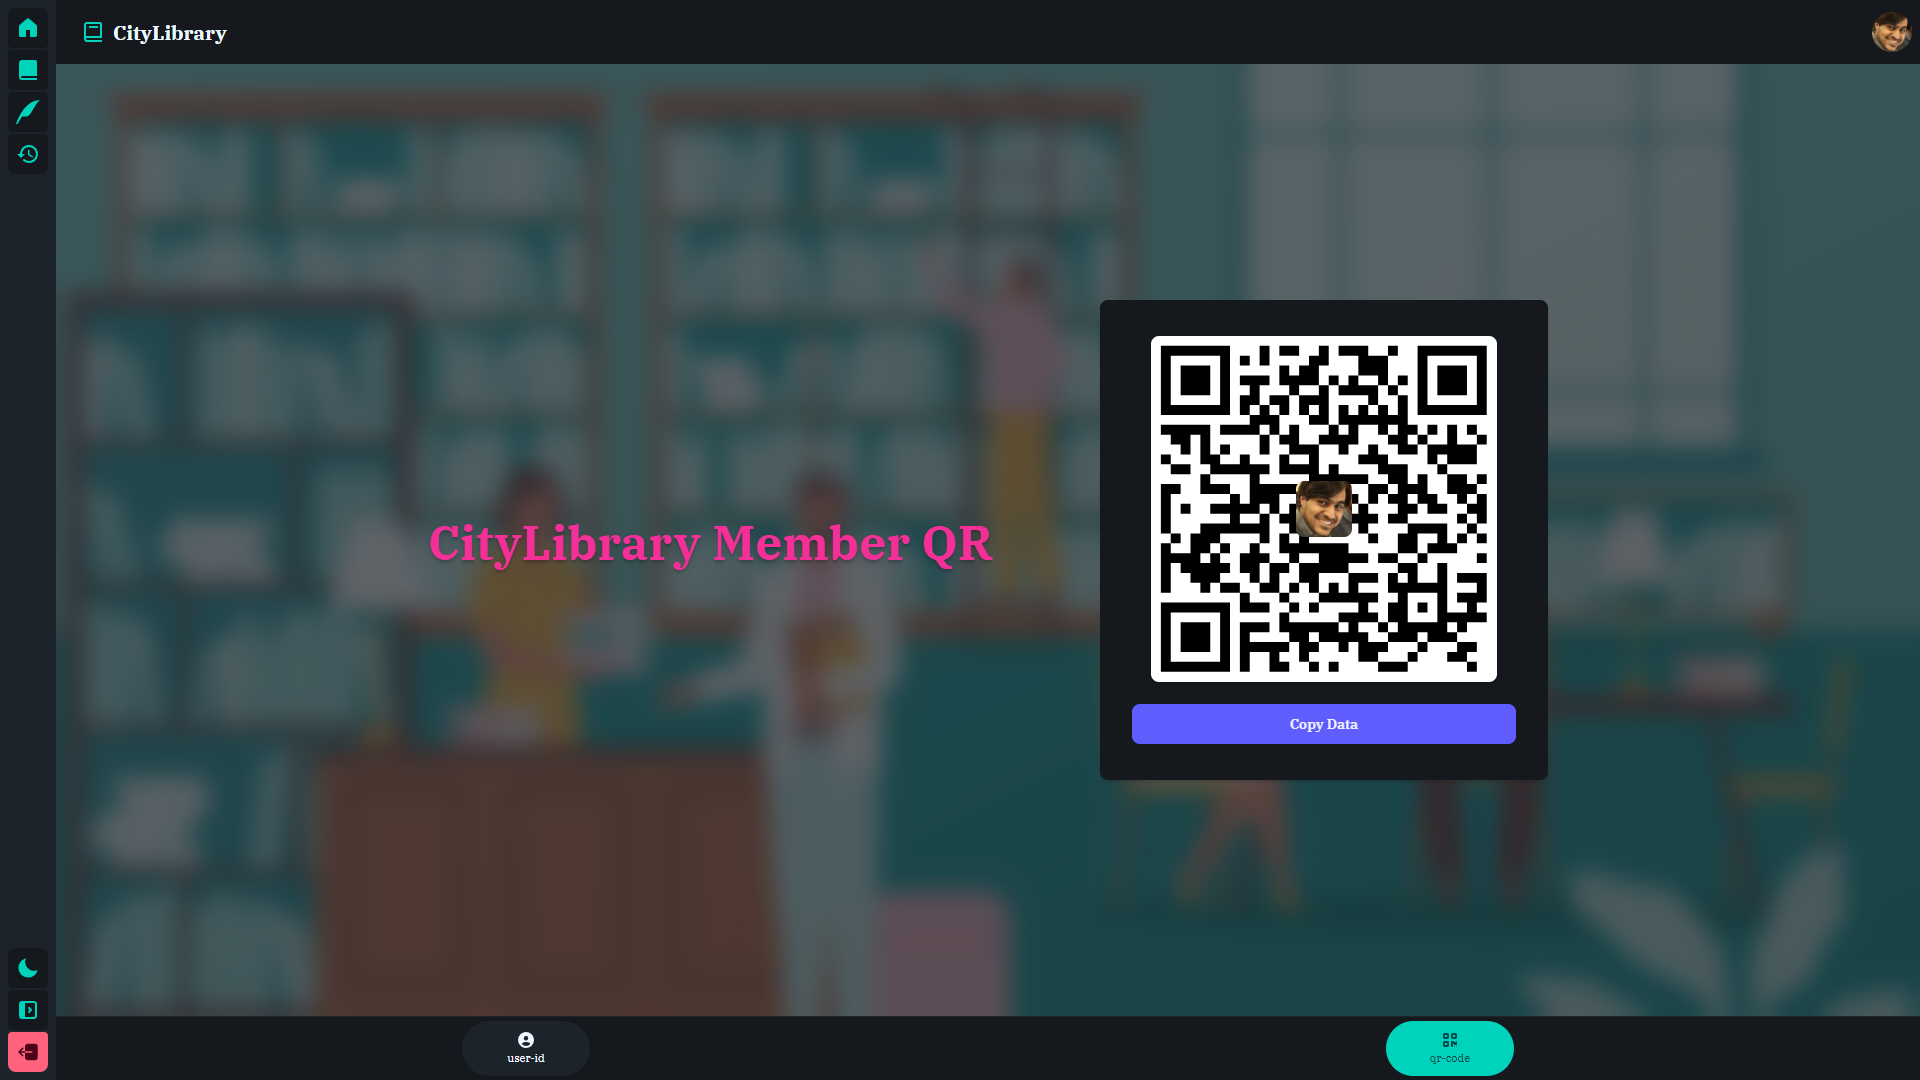
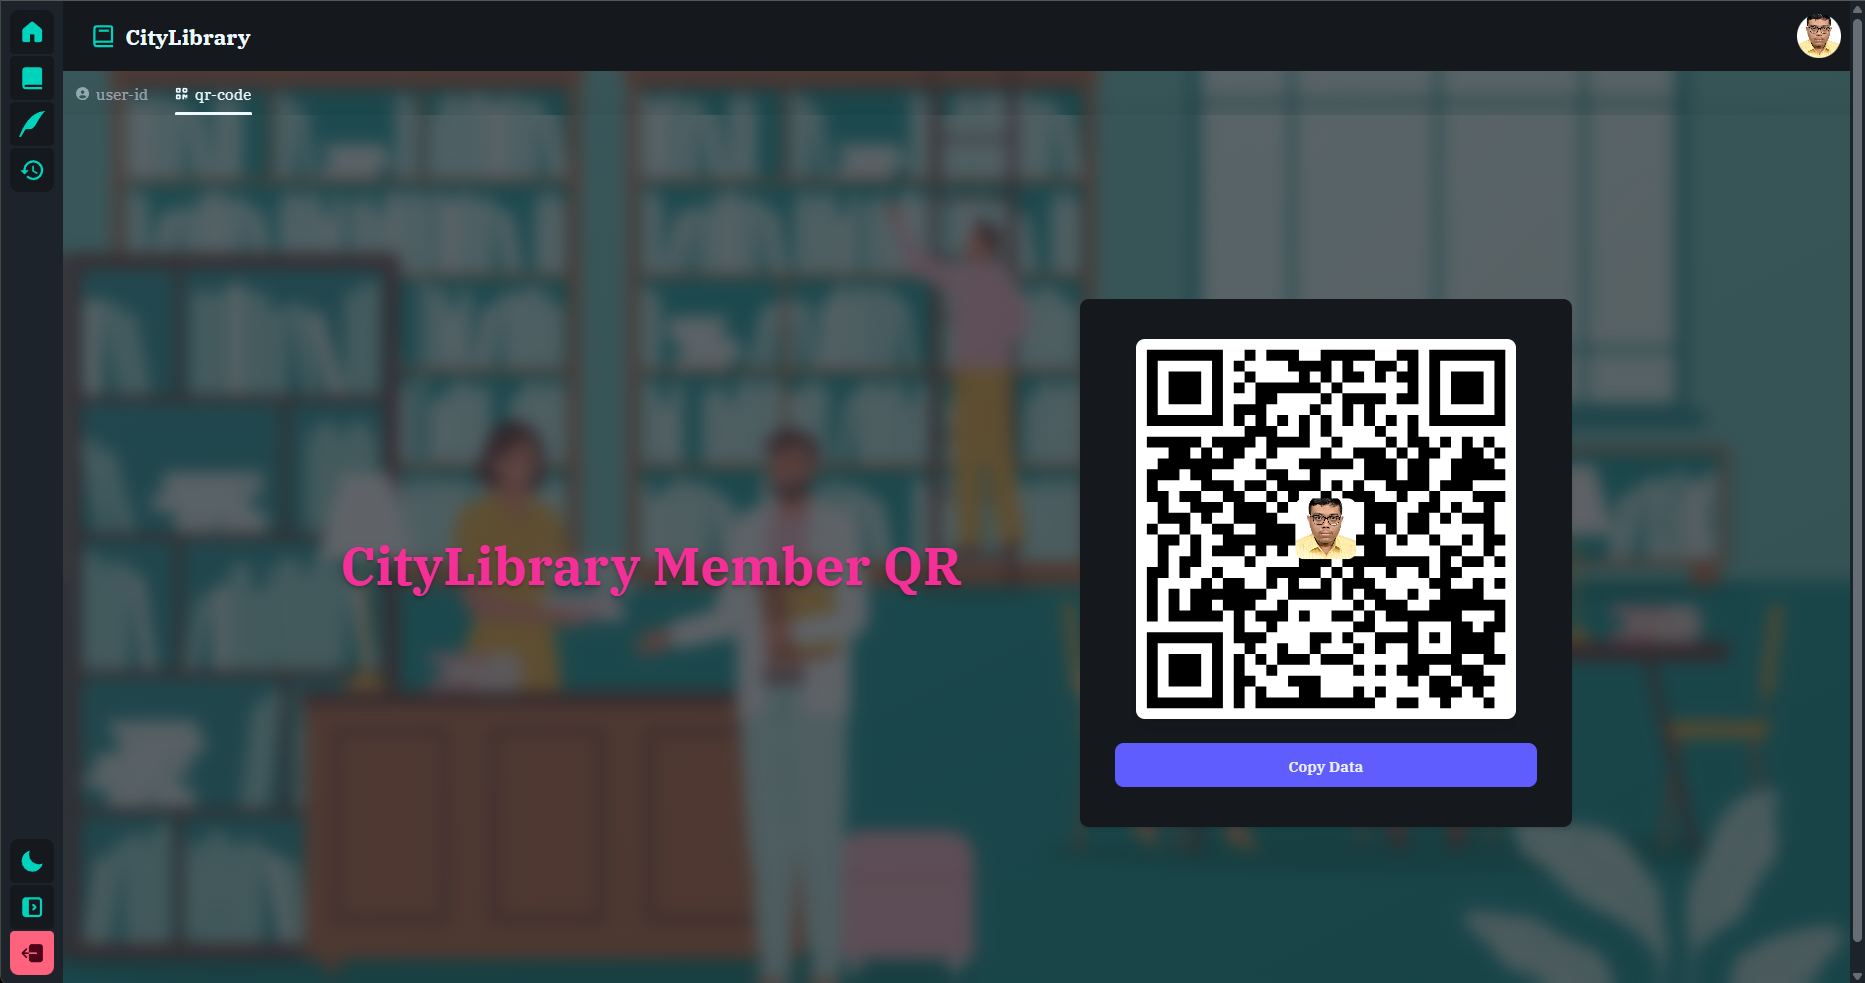
some minor additions done

diff --git a/ViteServer/src/routes/user/index.tsx b/ViteServer/src/routes/user/index.tsx
@@ -1,8 +1,9 @@
 import { cn } from "@/util/cn";
 import { useAuth } from "@/store/auth";
-import { useState, useId } from "react";
 import * as qrCode from "@zag-js/qr-code";
+import { useState, useId, useEffect } from "react";
 import RippleButton from "@/components/RippleButton";
+import { useThrottledCallback } from "@tanstack/react-pacer";
 import { useToast } from "@/contexts/Toast/ToastContext";
 import { createFileRoute } from "@tanstack/react-router";
 import { FaCircleUser, FaQrcode } from "react-icons/fa6";
@@ -19,16 +20,62 @@ function RouteComponent() {
   if (user === null) return navigate({ to: "/login" });
 
   const [activeTab, setActiveTab] = useState<"user-id" | "qr-code">("user-id");
+  const [isMobileView, setIsMobileView] = useState<boolean>(
+    window.innerWidth <= 640,
+  );
+  const handleResize = useThrottledCallback(
+    () => setIsMobileView(window.innerWidth <= 640),
+    { wait: 250, key: "window-resize-handler" },
+  );
+
+  useEffect(() => {
+    window.addEventListener("resize", handleResize);
+    return () => window.removeEventListener("resize", handleResize);
+  }, [handleResize]);
 
   const service = useMachine(qrCode.machine, {
     id: useId(),
     value: JSON.stringify(user, ["username", "email"]),
   });
+
   const api = qrCode.connect(service, normalizeProps);
 
   return (
     <>
-      <div className="page-height min-h-[calc(100dvh-8rem)] grid place-items-center custom-grad p-4">
+      {/* tabs */}
+      {!isMobileView && (
+        <div role="tablist" className="tabs tabs-border custom-grad">
+          <label className="tab">
+            <input
+              type="radio"
+              onChange={() => setActiveTab("user-id")}
+              name="current-page"
+              defaultChecked={activeTab === "user-id"}
+            />
+            <FaCircleUser size={12} />
+            &nbsp; user-id
+          </label>
+          <label className="tab">
+            <input
+              type="radio"
+              onChange={() => setActiveTab("qr-code")}
+              name="current-page"
+              defaultChecked={activeTab === "qr-code"}
+            />
+            <FaQrcode size={12} />
+            &nbsp; qr-code
+          </label>
+        </div>
+      )}
+      {/* content */}
+      <div
+        className={cn(
+          "page-height grid place-items-center custom-grad p-4",
+          isMobileView
+            ? "min-h-[calc(100dvh-8rem)]"
+            : "min-h-[calc(100dvh-5rem)]",
+        )}
+      >
         {/* user id */}
         <div
           className={cn(
@@ -149,29 +196,31 @@ function RouteComponent() {
         </div>
       </div>
       {/* dock */}
-      <div className="custom-position-unset dock dock-md bg-base-300 is-drawer-close:left-14 is-drawer-close:w-[calc(100%-7rem)] is-drawer-open:left-64 is-drawer-open:w-[calc(100%-32rem)]">
-        <RippleButton
-          className={cn(
-            "rounded-full bg-base-100 text-base-content hover:bg-primary",
-            activeTab == "user-id" && "bg-accent text-accent-content",
-          )}
-          onClick={() => setActiveTab("user-id")}
-        >
-          <FaCircleUser />
-          <span className="dock-label">user-id</span>
-        </RippleButton>
+      {isMobileView && (
+        <div className="custom-position-unset dock dock-md bg-base-300 is-drawer-close:left-14 is-drawer-close:w-[calc(100%-7rem)] is-drawer-open:left-64 is-drawer-open:w-[calc(100%-32rem)]">
+          <RippleButton
+            className={cn(
+              "rounded-full bg-base-100 text-base-content hover:bg-primary",
+              activeTab == "user-id" && "bg-accent text-accent-content",
+            )}
+            onClick={() => setActiveTab("user-id")}
+          >
+            <FaCircleUser />
+            <span className="dock-label">user-id</span>
+          </RippleButton>
 
-        <RippleButton
-          className={cn(
-            "rounded-full bg-base-100 text-base-content hover:bg-primary",
-            activeTab == "qr-code" && "bg-accent text-accent-content",
-          )}
-          onClick={() => setActiveTab("qr-code")}
-        >
-          <FaQrcode />
-          <span className="dock-label">qr-code</span>
-        </RippleButton>
-      </div>
+          <RippleButton
+            className={cn(
+              "rounded-full bg-base-100 text-base-content hover:bg-primary",
+              activeTab == "qr-code" && "bg-accent text-accent-content",
+            )}
+            onClick={() => setActiveTab("qr-code")}
+          >
+            <FaQrcode />
+            <span className="dock-label">qr-code</span>
+          </RippleButton>
+        </div>
+      )}
     </>
   );
 }

diff --git a/ViteServer/src/routes/__root.tsx b/ViteServer/src/routes/__root.tsx
@@ -5,6 +5,7 @@ import { TanStackDevtools } from "@tanstack/react-devtools";
 import { FormDevtoolsPanel } from "@tanstack/react-form-devtools";
 import { HotkeysDevtoolsPanel } from "@tanstack/react-hotkeys-devtools";
 import { ReactQueryDevtoolsPanel } from "@tanstack/react-query-devtools";
+import { PacerDevtoolsPanel } from "@tanstack/react-pacer-devtools";
 import { Outlet, createRootRouteWithContext } from "@tanstack/react-router";
 import { TanStackRouterDevtoolsPanel } from "@tanstack/react-router-devtools";
 
@@ -21,20 +22,24 @@ function RootComponent() {
       <TanStackDevtools
         plugins={[
           {
-            name: "TanStack Query",
+            name: "Query",
             render: <ReactQueryDevtoolsPanel />,
           },
           {
-            name: "TanStack Router",
+            name: "Router",
             render: <TanStackRouterDevtoolsPanel />,
           },
           {
-            name: "TanStack Hotkey",
+            name: "Hotkey",
             render: <HotkeysDevtoolsPanel theme="dark" devtoolsOpen={false} />,
           },
           {
-            name: "Tanstack Form",
+            name: "Form",
             render: <FormDevtoolsPanel theme="dark" devtoolsOpen={false} />,
+          },
+          {
+            name: "Pacer",
+            render: <PacerDevtoolsPanel theme="dark" devtoolsOpen={false} />,
           },
         ]}
       />

diff --git a/ViteServer/README.md b/ViteServer/README.md
@@ -84,6 +84,11 @@
     <img src="./../images/city-library-user-details-qr-page.png" alt="City Library User Details QR Page" />
     <p>Digital member badge displaying a generated QR code for fast library check-ins and identification scanning.</p>
   </details>
+  <details>
+    <summary>User Details mobile-view</summary>
+    <img src="./../images/city-library-user-details-qr-page-mobile-view.png" alt="City Library User Details QR Page" />
+    <p>Digital member badge displaying a generated QR code for fast library check-ins and identification scanning.</p>
+  </details>
 </details>
 
 ### 🎨 Frontend Ecosystem (React)

diff --git a/README.md b/README.md
@@ -26,7 +26,7 @@
 
 > ## Database diagram
 
-> <img src="images/er-diagram.svg" alt="database diagram" width="100%" />
+<img src="images/er-diagram.svg" alt="database diagram" width="100%" />
 
 ### 🌟 Overview
 
